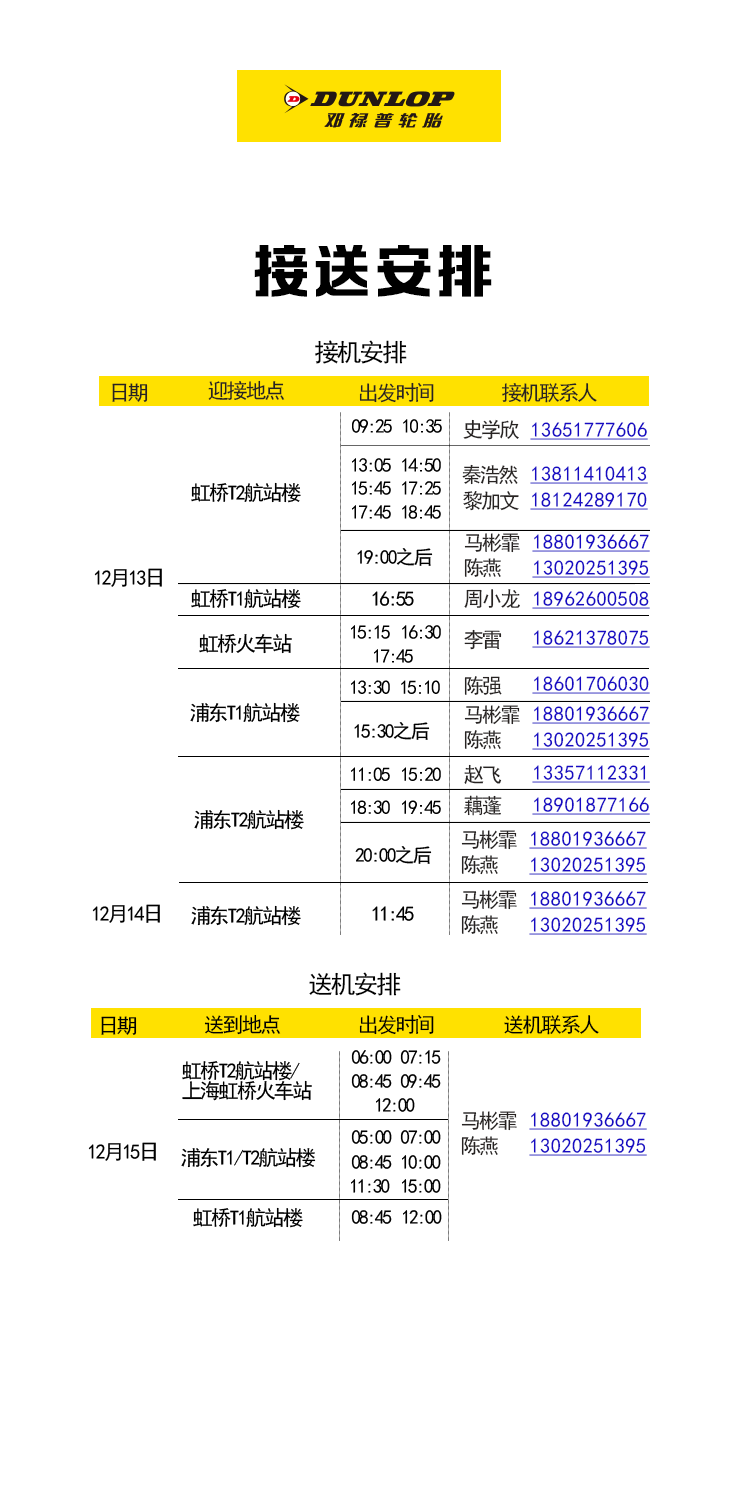
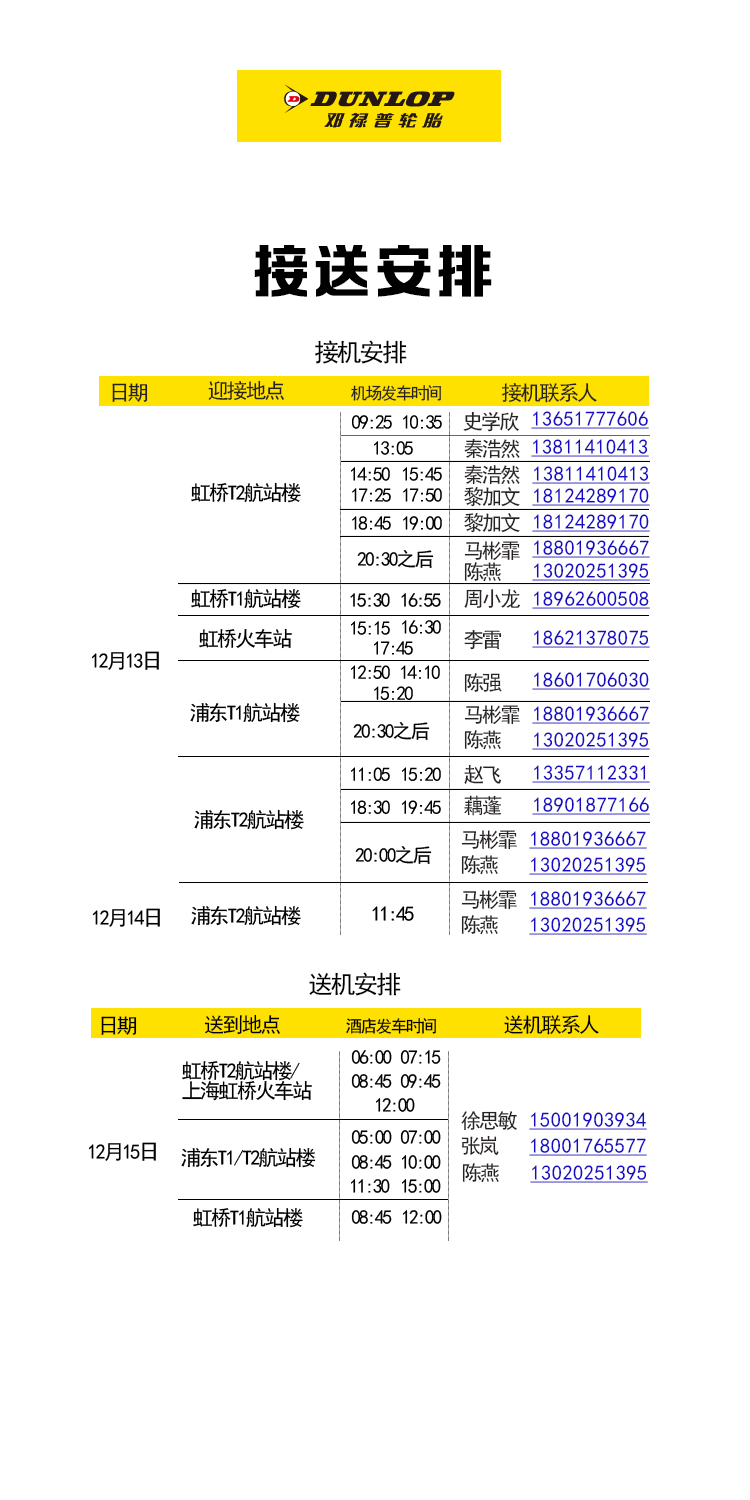
图片更新

diff --git a/src/views/Pickup.vue b/src/views/Pickup.vue
@@ -2,8 +2,8 @@
   <div class="Pickup">
     <div class="pickup-img">
       <a class="tel1" href="tel:13651777606"></a>
-      <a class="tel2" href="tel:13811410413"></a>
-      <a class="tel3" href="tel:18124289170"></a>
+      <a class="tel2" style="height:0.6rem" href="tel:13811410413"></a>
+      <a class="tel3" style="height:0.6rem" href="tel:18124289170"></a>
       <a class="tel4" href="tel:18801936667"></a>
       <a class="tel5" href="tel:13020241395"></a>
       <a class="tel6" href="tel:18962600508"></a>
@@ -17,8 +17,9 @@
       <a class="tel14" href="tel:13020251395"></a>
       <a class="tel15" href="tel:18801936667"></a>
       <a class="tel16" href="tel:13020251395"></a>
-      <a class="tel17" href="tel:18801936667"></a>
-      <a class="tel18" href="tel:13020251395"></a>
+      <a class="tel17" href="tel:15001903934"></a>
+      <a class="tel18" href="tel:18801936667"></a>
+      <a class="tel19" href="tel:13020251395"></a>
     </div>
     <Back />
   </div>
@@ -60,11 +61,11 @@ export default {
   /* background-color: rgba(0, 0, 0, 0.6); */
 }
 .tel1 {
-  top: 400px;
+  top: 390px;
   right: 100px;
 }
 .tel2 {
-  top: 446px;
+  top: 430px;
   right: 100px;
 }
 .tel3 {
@@ -129,6 +130,10 @@ export default {
 }
 .tel18 {
   bottom: 320px;
+  right: 100px;
+}
+.tel19 {
+  bottom: 290px;
   right: 100px;
 }
 </style>

diff --git a/src/views/Features.vue b/src/views/Features.vue
@@ -192,18 +192,6 @@ export default {
   transition: all 1s;
 }
 
-/* .cube.show-front {
-  transform: translateZ(-100px) rotateY(0deg);
-} */
-/* .cube.show-right {
-  transform: translateZ(-100px) rotateY(-90deg);
-} */
-/* .cube.show-back {
-  transform: translateZ(-100px) rotateY(-180deg);
-} */
-/* .cube.show-left {
-  transform: translateZ(-100px) rotateY(90deg);
-} */
 .cube.show-front > .cube__face--back,
 .cube.show-front > .cube__face--left,
 .cube.show-right > .cube__face--front,

diff --git a/src/views/Schedule2.vue b/src/views/Schedule2.vue
@@ -1,7 +1,7 @@
 <template>
   <div class="Schedule2">
     <div class="schedule2-img">
-      <div class="to4" @click.stop="goSchedule4"></div>
+      <!-- <div class="to4" @click.stop="goSchedule4"></div> -->
       <div
         class="pull"
         @touchstart="startHandle"
